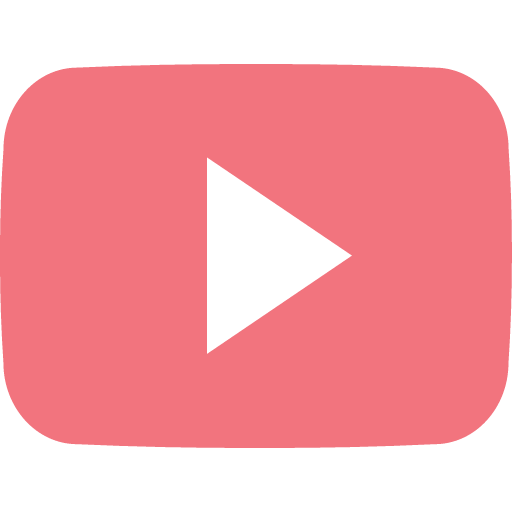
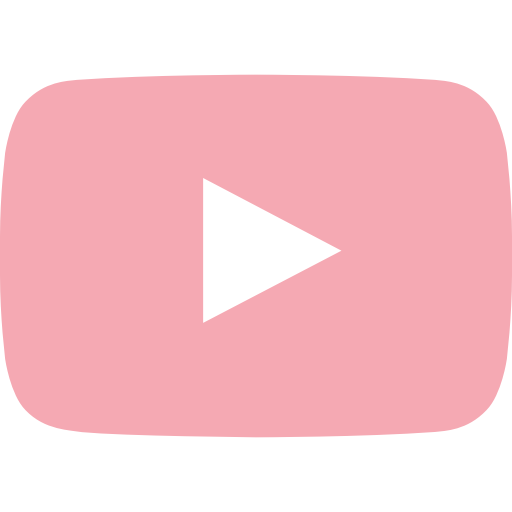
update dribbble; styles for pages

diff --git a/about.html b/about.html
@@ -38,7 +38,7 @@
       <h2>your friendly user experience designer</br>
         from calgary, ab, canada
       </h2>
-      <a href="https://dribbble.com/charli_cheung" target="_blank"><img src="images/Dribble.png" alt="Dribbble" /></a>
+      <a href="https://dribbble.com/charli_cheung" target="_blank"><img src="images/Dribbble.png" alt="Dribbble" /></a>
       <a href="https://github.com/charliecheung" target="_blank"><img src="images/github.png" alt="github" /></a>
       <a href="https://ca.linkedin.com/in/charlie-cheung" target="_blank"><img src="images/linkedin.png" alt="linkedin" /></a>
       <a href="https://www.youtube.com/c/charlicheung" target="_blank"><img src="images/youtube.png" alt="youtube" /></a>
@@ -64,7 +64,7 @@
   <h3 style="color: #F5A9B3; ">skills</h3>
   <hr/>
   <h5>User Experience</h5>
-  <h4>User research, personas, workshop facilitation, accessibility, A/B testing, user task flows, user stories, storyboarding, wireframes, prototyping, XMind, UX writing, interview facilitator, public speaker/presenter</h4>
+  <h4>User research, personas, workshop facilitation, accessibility, A/B testing, user task flows, user stories, storyboarding, journey mapping, affinity diagramming, wireframes, prototyping, XMind, UX writing, interview facilitator, public speaker/presenter</h4>
 </br>
   <h5>User Interface</h5>
   <h4>Figma, branding, iconography, typography, graphic illustration, Adobe Photoshop, Adobe Illustrator, Adobe XD, Adobe Premier Pro, Sketch</h4>
@@ -78,7 +78,7 @@
   <h5>CMS</h5>
   <h4>Wordpress, Wix, Squarespace</h4>
 </br>
-  <h3 style="color: #F5A9B3; ">hobbies</h3>
+  <h3>hobbies</h3>
   <hr/>
   <p>When I'm not coding or designing, I'm a taekwondo and tai chi instructor and yoga practitioner.
   </br>As for down time? You can find me out for cooking, drawing, gaming, or spending time with my pets.

diff --git a/project-styles.css b/project-styles.css
@@ -9,9 +9,9 @@ hr {
 
 em {
   font-family: 'Montserrat', sans-serif;
-  font-weight: 300;
+  font-weight: 500;
   font-size: 2em;
-  color: #97B2E7;
+  color: #515456;
   text-align: center!important;
 }
 
@@ -48,7 +48,7 @@ em {
 
 .project p {
   font-family: 'Montserrat', sans-serif;
-  font-weight: 300;
+  font-weight: 500;
   font-size: 1em;
   width: 70%;
   color: #515456;
@@ -56,7 +56,7 @@ em {
 
 .project li {
   font-family: 'Montserrat', sans-serif;
-  font-weight: 300;
+  font-weight: 500;
   font-size: 1em;
   line-height: 20px;
   color: #515456;
@@ -72,7 +72,7 @@ h3 {
   font-family: 'Montserrat', sans-serif;
   font-weight: 700;
   letter-spacing: 2px;
-  color: #F2747E;
+  color: #F5A9B3;
 }
 
 h4 {
@@ -102,7 +102,7 @@ h5 {
 
 .project-links a {
   color: #FFFFFF !important;
-  background: #F2747E;
+  background: #F5A9B3;
   font-family: 'Montserrat', sans-serif;
   font-size: 1em;
   padding: 10px 0 10px 0;

diff --git a/branding-package.html b/branding-package.html
@@ -38,7 +38,7 @@
         <h2>your friendly user experience designer</br>
           from calgary, ab, canada
         </h2>
-        <a href="https://dribbble.com/charli_cheung" target="_blank"><img src="images/Dribble.png" alt="Dribbble" /></a>
+        <a href="https://dribbble.com/charli_cheung" target="_blank"><img src="images/Dribbble.png" alt="Dribbble" /></a>
         <a href="https://github.com/charliecheung" target="_blank"><img src="images/github.png" alt="github" /></a>
         <a href="https://ca.linkedin.com/in/charlie-cheung" target="_blank"><img src="images/linkedin.png" alt="linkedin" /></a>
         <a href="https://www.youtube.com/c/charlicheung" target="_blank"><img src="images/youtube.png" alt="youtube" /></a>

diff --git a/bubaeke.html b/bubaeke.html
@@ -38,7 +38,7 @@
         <h2>your friendly user experience designer</br>
           from calgary, ab, canada
         </h2>
-        <a href="https://dribbble.com/charli_cheung" target="_blank"><img src="images/Dribble.png" alt="Dribbble" /></a>
+        <a href="https://dribbble.com/charli_cheung" target="_blank"><img src="images/Dribbble.png" alt="Dribbble" /></a>
         <a href="https://github.com/charliecheung" target="_blank"><img src="images/github.png" alt="github" /></a>
         <a href="https://ca.linkedin.com/in/charlie-cheung" target="_blank"><img src="images/linkedin.png" alt="linkedin" /></a>
         <a href="https://www.youtube.com/c/charlicheung" target="_blank"><img src="images/youtube.png" alt="youtube" /></a>

diff --git a/case-study-accessibility.html b/case-study-accessibility.html
@@ -38,7 +38,7 @@
         <h2>your friendly user experience designer</br>
           from calgary, ab, canada
         </h2>
-        <a href="https://dribbble.com/charli_cheung" target="_blank"><img src="images/Dribble.png" alt="Dribbble" /></a>
+        <a href="https://dribbble.com/charli_cheung" target="_blank"><img src="images/Dribbble.png" alt="Dribbble" /></a>
         <a href="https://github.com/charliecheung" target="_blank"><img src="images/github.png" alt="github" /></a>
         <a href="https://ca.linkedin.com/in/charlie-cheung" target="_blank"><img src="images/linkedin.png" alt="linkedin" /></a>
         <a href="https://www.youtube.com/c/charlicheung" target="_blank"><img src="images/youtube.png" alt="youtube" /></a>

diff --git a/collaborative-canvas.html b/collaborative-canvas.html
@@ -38,7 +38,7 @@
         <h2>your friendly user experience designer</br>
           from calgary, ab, canada
         </h2>
-        <a href="https://dribbble.com/charli_cheung" target="_blank"><img src="images/Dribble.png" alt="Dribbble" /></a>
+        <a href="https://dribbble.com/charli_cheung" target="_blank"><img src="images/Dribbble.png" alt="Dribbble" /></a>
         <a href="https://github.com/charliecheung" target="_blank"><img src="images/github.png" alt="github" /></a>
         <a href="https://ca.linkedin.com/in/charlie-cheung" target="_blank"><img src="images/linkedin.png" alt="linkedin" /></a>
         <a href="https://www.youtube.com/c/charlicheung" target="_blank"><img src="images/youtube.png" alt="youtube" /></a>

diff --git a/hiremesuccess.html b/hiremesuccess.html
@@ -38,7 +38,7 @@
       <h2>your friendly user experience designer</br>
         from calgary, ab, canada
       </h2>
-      <a href="https://dribbble.com/charli_cheung" target="_blank"><img src="images/Dribble.png" alt="Dribbble" /></a>
+      <a href="https://dribbble.com/charli_cheung" target="_blank"><img src="images/Dribbble.png" alt="Dribbble" /></a>
       <a href="https://github.com/charliecheung" target="_blank"><img src="images/github.png" alt="github" /></a>
       <a href="https://ca.linkedin.com/in/charlie-cheung" target="_blank"><img src="images/linkedin.png" alt="linkedin" /></a>
       <a href="https://www.youtube.com/c/charlicheung" target="_blank"><img src="images/youtube.png" alt="youtube" /></a>

diff --git a/index.html b/index.html
@@ -39,7 +39,7 @@
       <h2>your friendly user experience designer</br>
         from calgary, ab, canada
       </h2>
-      <a href="https://dribbble.com/charli_cheung" target="_blank"><img src="images/Dribble.png" alt="Dribbble" /></a>
+      <a href="https://dribbble.com/charli_cheung" target="_blank"><img src="images/Dribbble.png" alt="Dribbble" /></a>
       <a href="https://github.com/charliecheung" target="_blank"><img src="images/github.png" alt="github" /></a>
       <a href="https://ca.linkedin.com/in/charlie-cheung" target="_blank"><img src="images/linkedin.png" alt="linkedin" /></a>
       <a href="https://www.youtube.com/c/charlicheung" target="_blank"><img src="images/youtube.png" alt="youtube" /></a>

diff --git a/hireme.html b/hireme.html
@@ -39,7 +39,7 @@
         & freelancer</br>
         in calgary, ab, canada
       </h2>
-      <a href="https://dribbble.com/charli_cheung" target="_blank"><img src="images/Dribble.png" alt="Dribble" /></a>
+      <a href="https://dribbble.com/charli_cheung" target="_blank"><img src="images/Dribbble.png" alt="Dribble" /></a>
       <a href="https://github.com/charliecheung" target="_blank"><img src="images/github.png" alt="github" /></a>
       <a href="https://ca.linkedin.com/in/charlie-cheung" target="_blank"><img src="images/linkedin.png" alt="linkedin" /></a>
       <a href="https://www.youtube.com/c/charlicheung" target="_blank"><img src="images/youtube.png" alt="youtube" /></a>

diff --git a/about-styles.css b/about-styles.css
@@ -15,7 +15,7 @@ hr {
 
 .about p {
   font-family: 'Montserrat', sans-serif;
-  font-weight: 400;
+  font-weight: 500;
   font-size: 1em;
   width: 70%;
   color: #515456;
@@ -25,12 +25,12 @@ h3 {
   font-family: 'Montserrat', sans-serif;
   font-weight: 700;
   letter-spacing: 2px;
-  color: #F2747E !important;
+  color: #F5A9B3 !important;
 }
 
 h4 {
   font-family: 'Montserrat', sans-serif;
-  font-weight: 400;
+  font-weight: 500;
   letter-spacing: 0.5px;
   font-size: 1em;
   text-align: left;

diff --git a/contact-styles.css b/contact-styles.css
@@ -13,7 +13,7 @@ h3 {
   font-weight: 600;
   letter-spacing: 2px;
   font-size: 2em;
-  color: #F2747E;
+  color: #F5A9B3;
 }
 
 label {
